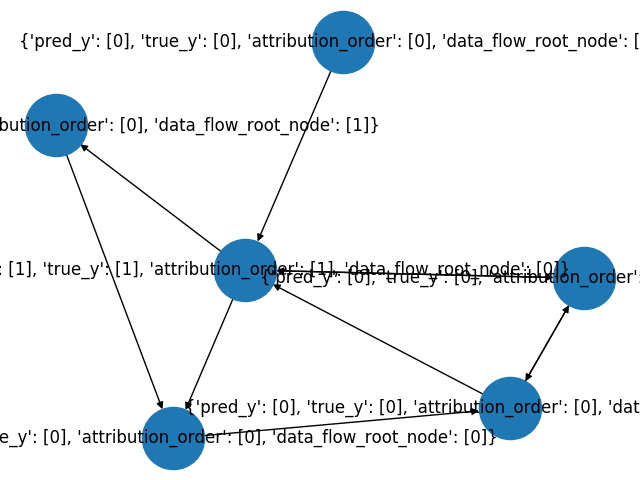
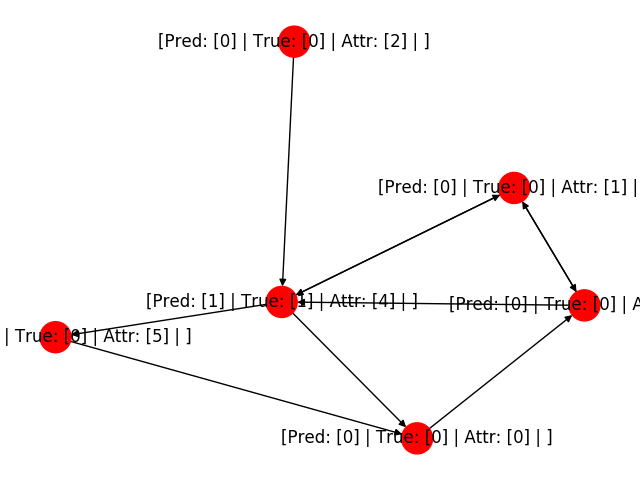
Test.

diff --git a/programl/task/dataflow/ggnn_test.py b/programl/task/dataflow/ggnn_test.py
@@ -228,15 +228,25 @@ def DrawAndSaveGraph(graph, graph_fname):
         serialize_ops.save_graphs(save_path, [graph])
     networkx_graph = ProgramGraphToNetworkX(graph)
     original_labels = nx.get_node_attributes(networkx_graph, "features")
+
     labels = {}
     for node, features in original_labels.items():
-        node_attrs = {}
-        node_attrs["pred_y"] = features["pred_y"]
-        node_attrs["true_y"] = features["true_y"]
-        node_attrs["attribution_order"] = features["pred_y"]
-        node_attrs["data_flow_root_node"] = features["data_flow_root_node"]
-        labels[node] = node_attrs
-    nx.draw(networkx_graph, labels=labels, node_size=2000)
+        curr_label = ""
+        curr_label += "Pred: " + str(features["pred_y"]) + " | "
+        curr_label += "True: " + str(features["true_y"]) + " | "
+        curr_label += "Attr: " + str(features["attribution_order"]) + " | "
+        if features["data_flow_root_node"] == 0:
+            curr_label += "Target"
+        labels[node] = '[' + curr_label + ']'
+
+    color = []
+    for node in networkx_graph.nodes():
+        if original_labels[node]["data_flow_root_node"] == 0:
+            color.append('blue')
+        else:
+            color.append('red')
+
+    nx.draw(networkx_graph, labels=labels, node_size=500, node_color=color)
     if not FLAGS.dryrun:
         save_img_path = FLAGS.ds_path + '/vis_res/' + graph_fname + ".AttributedProgramGraph.png"
         plt.show(block=False)
